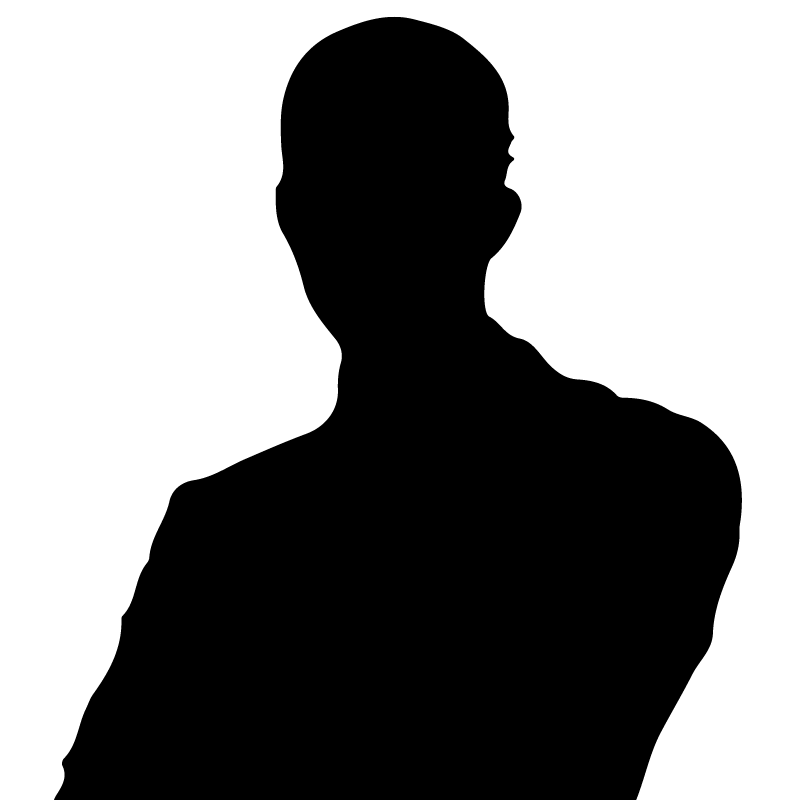
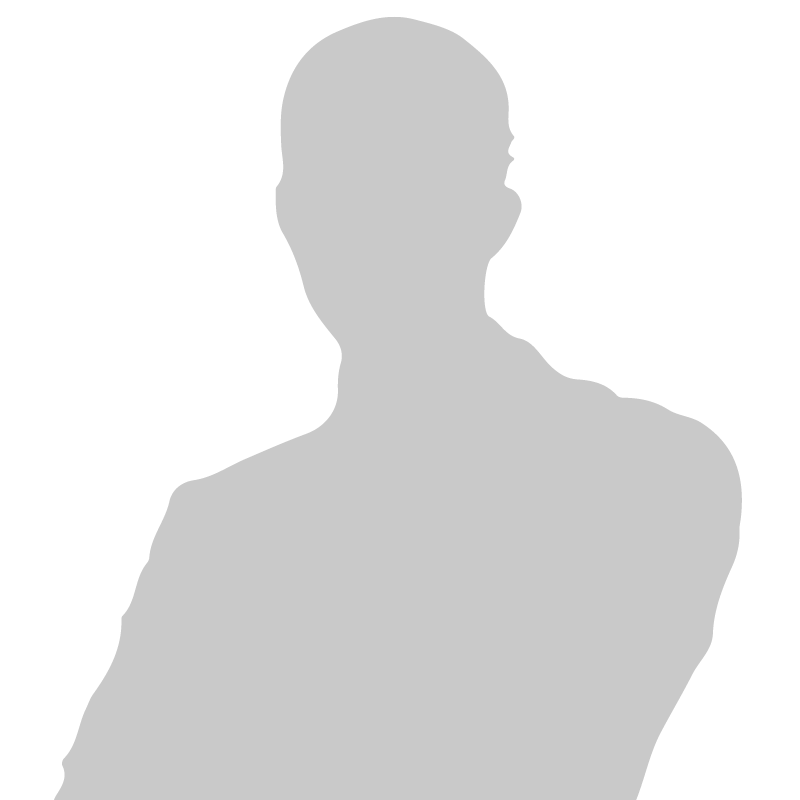
updating introduction

diff --git a/layouts/default.vue b/layouts/default.vue
@@ -45,14 +45,20 @@ h2,
 h3 {
   font-family: 'Montserrat', sans-serif;
   text-align: center;
-  letter-spacing: -0.03em;
+  letter-spacing: -0.02em;
 }
 
 h1 {
-  font-size: calc(1.8em + 1vw);
-  font-weight: 400;
-  margin-bottom: 0px;
+  font-size: calc(1.7em + 1vw);
+  font-weight: 500;
+  margin: 7px 0px;
   line-height: 0.8em;
+}
+
+h3 {
+  font-weight: 400;
+  font-size: calc(0.7em + 1vw);
+  margin: 5px 0px;
 }
 
 .bar::after {

diff --git a/nuxt.config.js b/nuxt.config.js
@@ -17,7 +17,8 @@ export default {
       { rel: 'icon', type: 'image/x-icon', href: '/favicon.ico' },
       {
         rel: 'stylesheet',
-        href:'https://fonts.googleapis.com/css?family=EB+Garamond:400,400i,500,500i|Montserrat:500,700,900'
+        href:
+          'https://fonts.googleapis.com/css?family=EB+Garamond:400,400i,500,500i|Montserrat:400,500,700,900'
       }
     ]
   },

diff --git a/components/Nav.vue b/components/Nav.vue
@@ -115,7 +115,6 @@ a {
   align-items: center;
   justify-content: center;
   transition: transform 0.25s font-weight 0.25s;
-  animation: fadeon forwards;
 }
 
 a.active {
@@ -146,7 +145,6 @@ a.active {
 
   a {
     width: 120px;
-    animation: slideon forwards;
   }
 
   a.active {

diff --git a/components/Introduction.vue b/components/Introduction.vue
@@ -37,7 +37,6 @@ section {
 }
 
 .image {
-  opacity: 0.1;
   flex: 0 0 auto;
   padding: 30%;
   margin: 20px 0px 40px;
